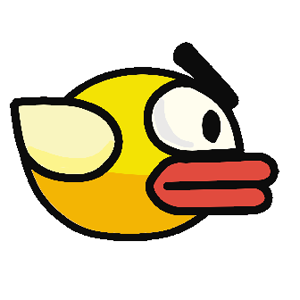
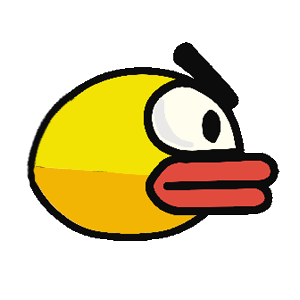
cloud fix & flappy bird image

diff --git a/app/styles/main.css b/app/styles/main.css
@@ -202,8 +202,7 @@ Til að byrja með eru þeir fyrst harðkóðaðir og eiga svo að breytast
   margin-left: -0.5em;
   height: 5em;
   width: 5em;
-  background: pink;
-  background-image: url("../images/niall.jpg");
+  background-image: url("../images/niall.png");
   background-size: 100% 100%;
   opacity: 0.5;
 }
@@ -214,8 +213,7 @@ Til að byrja með eru þeir fyrst harðkóðaðir og eiga svo að breytast
   margin-left: -0.5em;
   height: 5em;
   width: 5em;
-  background: pink;
-  background-image: url("../images/zayne.jpg");
+  background-image: url("../images/zayne.png");
   background-size: 100% 100%;
   opacity: 0.5;
 }
@@ -226,8 +224,7 @@ Til að byrja með eru þeir fyrst harðkóðaðir og eiga svo að breytast
   margin-left: -0.5em;
   height: 15em;
   width: 15em;
-  background: pink;
-  background-image: url("../images/liam.jpg");
+  background-image: url("../images/liam.png");
   background-size: 100% 100%;
   opacity: 0.5;
 }
@@ -238,8 +235,7 @@ Til að byrja með eru þeir fyrst harðkóðaðir og eiga svo að breytast
   margin-left: -0.5em;
   height: 10em;
   width: 10em;
-  background: pink;
-  background-image: url("../images/louis.jpg");
+  background-image: url("../images/louis.png");
   background-size: 100% 100%;
   opacity: 0.5;
 }
@@ -250,8 +246,7 @@ Til að byrja með eru þeir fyrst harðkóðaðir og eiga svo að breytast
   margin-left: -0.5em;
   height: 15em;
   width: 15em;
-  background: pink;
-  background-image: url("../images/harry.jpg");
+  background-image: url("../images/harry.png");
   background-size: 100% 100%;
   opacity: 0.5;
 }
@@ -262,19 +257,21 @@ Til að byrja með eru þeir fyrst harðkóðaðir og eiga svo að breytast
   margin-left: -0.5em;
   width: 5em;
   height: 5em;
-  background: yellow;
+  background-image: url("../images/flappybird.png");
+  background-size: 100% 100%;
   /*transform: translate(40em, 20em)*/
 }
 
 .Player-wings {
   position: absolute;
-  left: 0.5em;
-  top: 2.2em;
-  height: 1.5em;
-  width: 3.2em;
-  background: red;
-  -webkit-transform-origin: top left;
-  transform-origin: top left;
+  left: 0.2em;
+  top:1em;
+  height: 2em;
+  width: 2em;
+  background-image: url("../images/wing.png");
+  background-size: 100% 100%;
+  -webkit-transform-origin: bottom left;
+  transform-origin: bottom left;
   -webkit-animation: 0.3s flap alternate infinite;
   animation: 0.3s flap alternate infinite;
 }
@@ -283,11 +280,12 @@ Til að byrja með eru þeir fyrst harðkóðaðir og eiga svo að breytast
   from {
     -webkit-transform: rotateX(0);
     transform: rotateX(0);
+
   }
 
   to {
-    -webkit-transform: rotateX(180deg);
-    transform: rotateX(180deg);
+    -webkit-transform: rotateX(90deg);
+    transform: rotateX(90deg);
   }
 }
 
@@ -384,6 +382,7 @@ body {
 }
 
 #mute {
+  position: absolute;
 	width: 70px;
     height: 70px;
     cursor: pointer;

diff --git a/app/index.html b/app/index.html
@@ -27,8 +27,7 @@
        <!-- <img src="mute.png" class="muteMusic" onclick="document.getElementById('sound').pause()" />-->
 
         <div class="GameCanvas">
-            <div id="mute">_</div>
-
+           
             <audio id="1D" autoplay="autoplay" loop="loop">
                 <source src="/music/1D.mp3" type="audio/mp3">
             </audio>
@@ -83,7 +82,7 @@
             <div class="G12">
             </div>
 
-            
+             <div id="mute">_</div>
             
             <!--P = Pipe
                 T = Top

diff --git a/README.md b/README.md
@@ -27,20 +27,14 @@ grunt server
 ### Additional requirements.
 * (10%) All moving elements should be hardware accelerated.
 	* veit ekki hvað þetta þýðir nkl?
-* (10%) There should be a background element moving in paralax to the foreground, f.ex. a repeating cloud image. Note: it is not enough that the ground moves at different speed than the rest of the scene!
-	* laga þannig að það sé flottari mynd af 1D, (ekki hvítt utan um hausana)
 * (10%) The character rotates into his direction. The player should either have a sprite animation or some element (like a wing) which animates when flapping. 
-	* finna sprite og setja í staðinn fyrir kassann sem hann er núna
-	* láta vængina vera flotta lika og láta þá flap-a eins og þeir gera núna 
 	* í byrjun á hann að snúa áfram
 	* þegar ýtt er á jump á flappy að vísa upp
 	* þegar hann er búin að falla í 1 sek byrjar hann að snúa sér niður á við þangað til hann vísar alveg niður 
 	* nema hann jump- i aftur þá á hann að vísa aftur upp
 * (15% )Background music and sound effects for flapping and colliding. Mute support.
-	* setja 8bit one direction lag (svo þetta verði eins og alvöru tölvuleikur!)
 	* sound effect þegar vængirnir flap-a
 	* sound effect þegar hann klessir á  pípur ( ekki hægt að testa nema þegar hægt er ða klessa á pípur)
-	* færa mute takkan neðst til hægri eða vinstri inni í leikinn (þannig það sé ofaná "moldinni")
 
 ### Bonus points.
 * (10%) The game is responsive, scales down and playable on mobile and tablets.
@@ -53,3 +47,4 @@ grunt server
 * (5%) Gets one point for every gap that the player successfully passes.
 
 * (10%) If a player loses he should see his score and a button which starts the game again.
+* (10%) There should be a background element moving in paralax to the foreground, f.ex. a repeating cloud image. Note: it is not enough that the ground moves at different speed than the rest of the scene!
